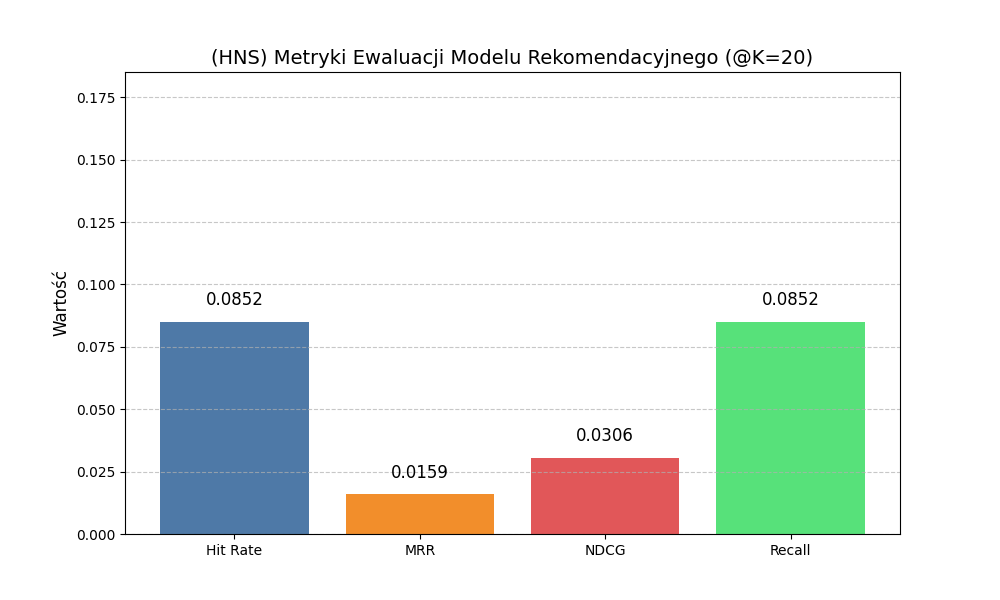
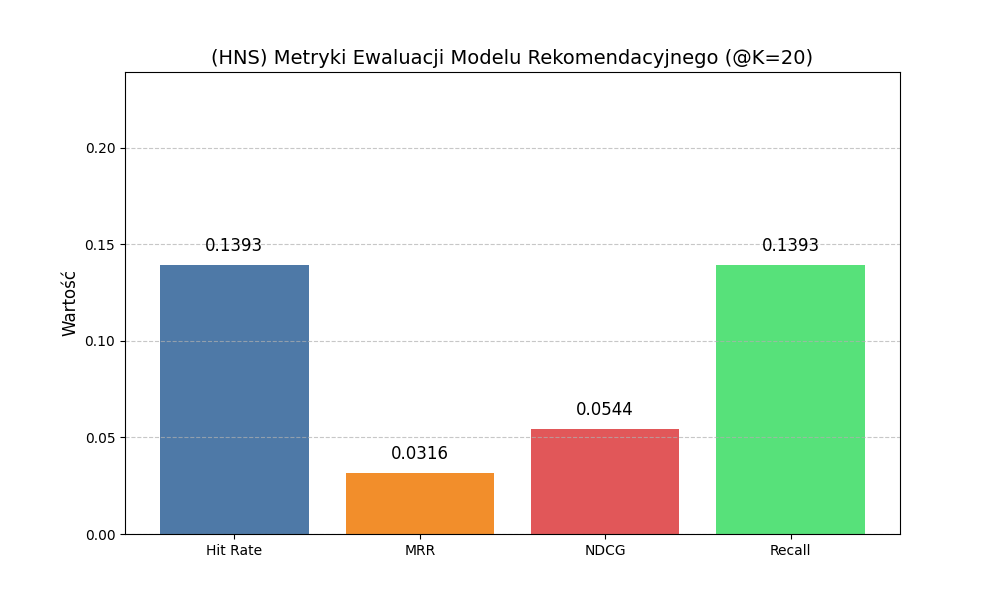
dodanie wykresow

diff --git a/NGCF/main.py b/NGCF/main.py
@@ -21,10 +21,10 @@ EMB_DIM = 16
 LAYERS = [16, 16]  #2 warswy so far
 DROPOUTS = [0.1, 0.1]
 LR = 0.001
-EPOCHS = 34
+EPOCHS = 40
 DECAY = 1e-5
 
-PROC_DANYCH = 0.05 #zmienna do treningu na danych, żeby nikt nie musiał czekać milion lat na model w fazach testowych
+PROC_DANYCH = 0.6 #zmienna do treningu na danych, żeby nikt nie musiał czekać milion lat na model w fazach testowych
 
 def evaluate_methods(model, adj_matrix, test_loader, train_user_dict, k=20):
     model.eval()